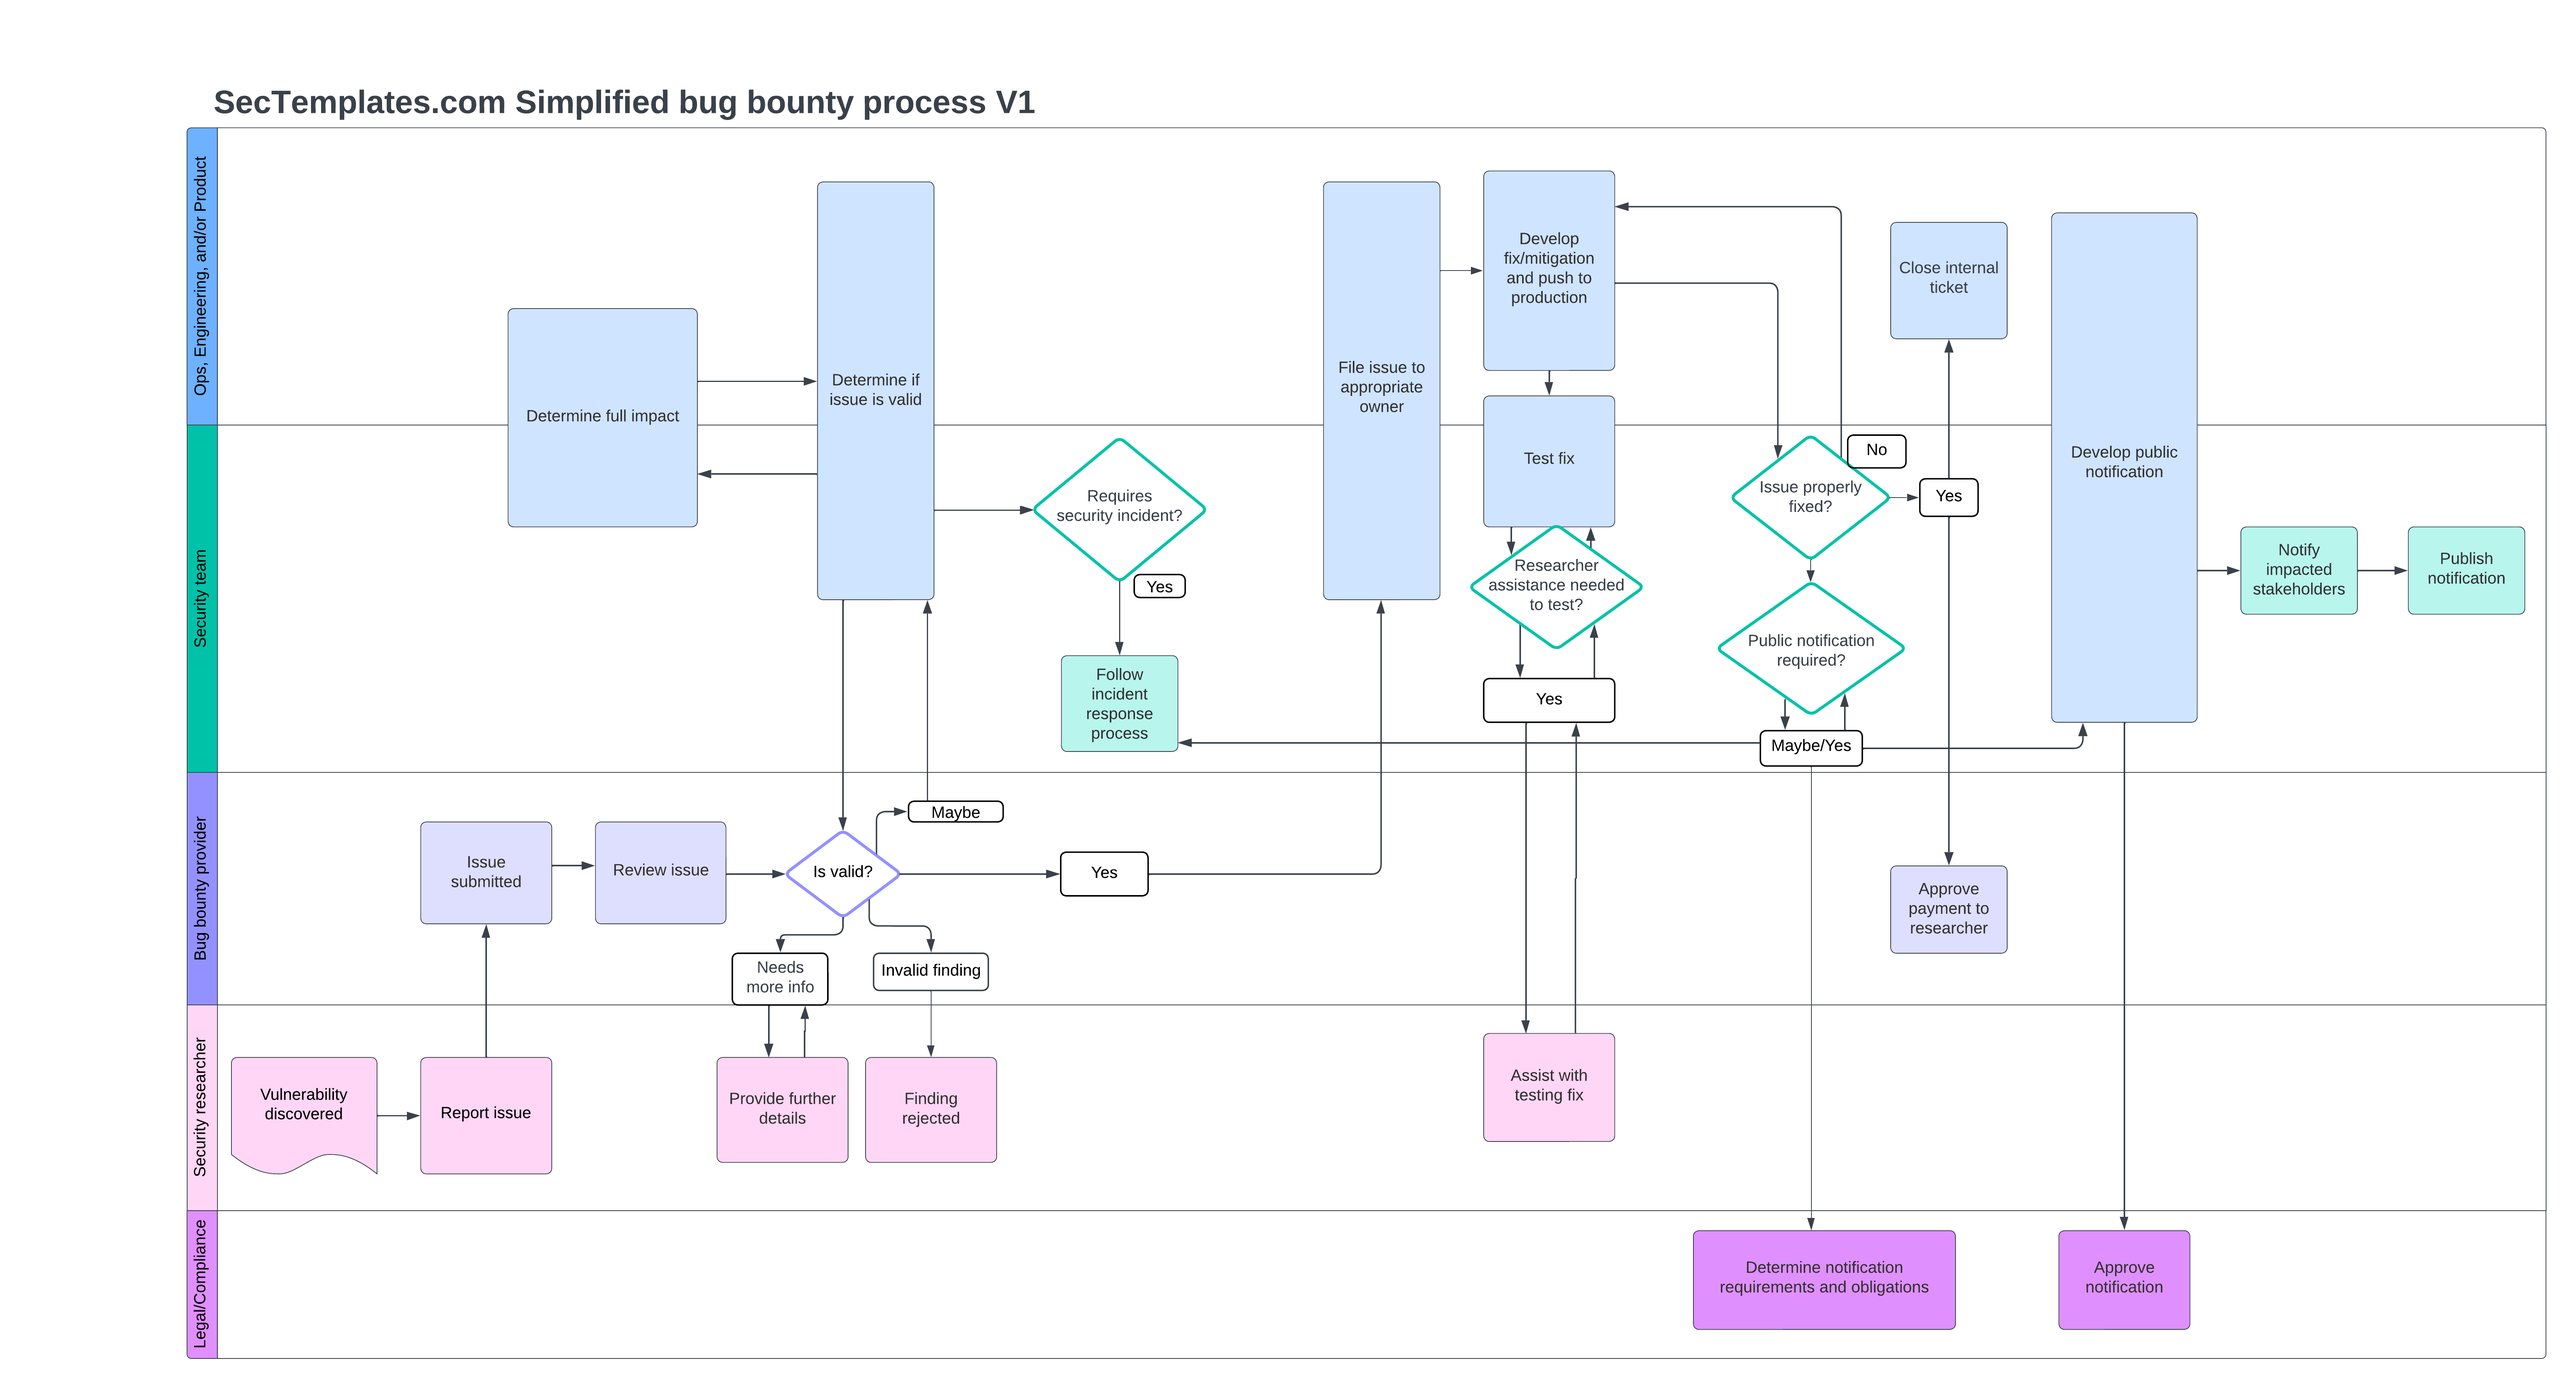
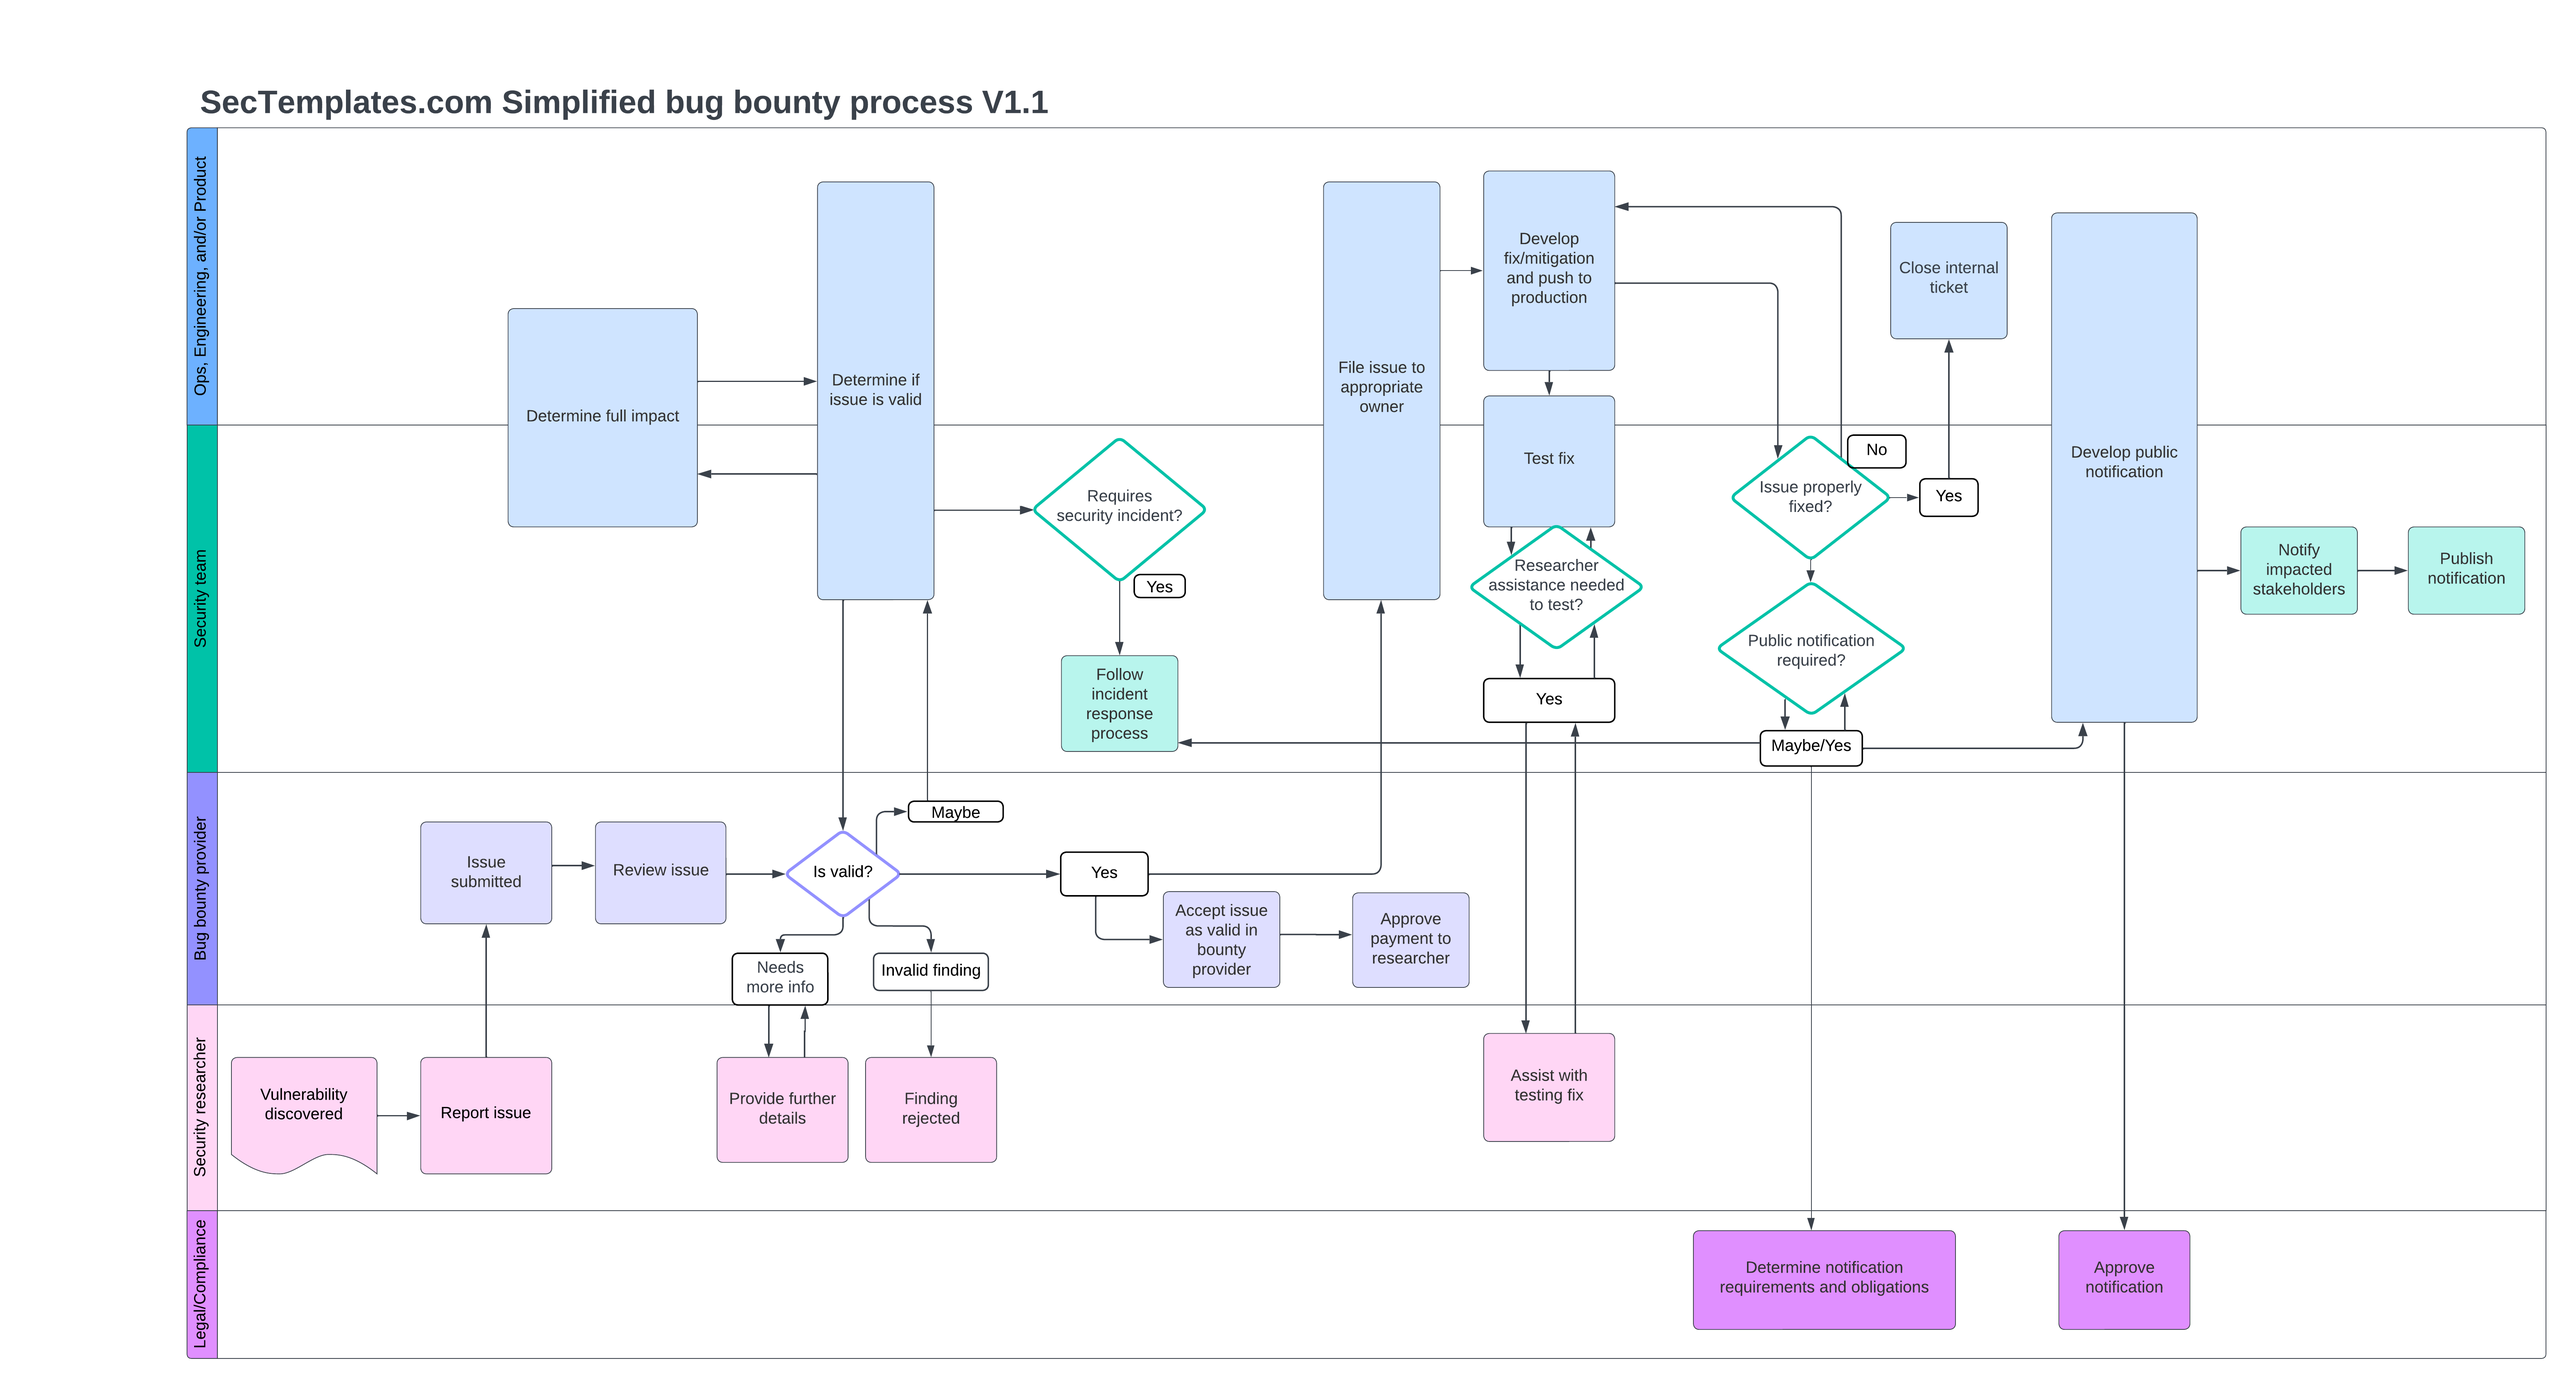
Improve payout workflow
The workflow needed clarification.

Changed region(s): [[0.4368, 0.6208, 0.5929, 0.7139], [0.0624, 0.0621, 0.4056, 0.0931], [0.7177, 0.6208, 0.7801, 0.7139]]

diff --git a/bug-bounty/v1/Bug_bounty_runbook.md b/bug-bounty/v1/Bug_bounty_runbook.md
@@ -19,26 +19,29 @@ When a vulnerability report enters your review queue, perform the following step
    * If the issue appears to be real or valid, confirm the possible negative impact reported by the researcher, and loop in engineering stakeholders to verify the impact is correctly understood. This may require engaging engineering or ops on-call to assist. <br>
       * <b>For High-Critical severity issues</b>, spin up an incident channel per your <a href="https://www.sectemplates.com/2024/06/announcing-the-incident-response-program-pack-10.html">incident response process</a> to discuss the issue with applicable stakeholders and roll out a fix quickly. <b>If data leakage  potentially occurred, you MUST contact your incident response team and support them in forensic investigations. It's critical to determine how long the issue was open and if other researchers or attackers may have exploited the flaw. If data leakage is thought to have occurred, work with your incident response team to notify your legal team appropriately.</b><br>
       * <b>For Low-Medium severity issues</b> with a low impact, file the issue in your internal bug tracker and notify the issue owner.<br>
-      * <b>For out of scope issues</b> that appear valid but are technically out of scope, evaluate with your team if the issue should still be paid out or if the asset containing the vulnerability should be added to the 'in scope' section of your <a href="./Bug_bounty_simplified_policy.md">bounty policy</a>.  
+      * <b>For out of scope issues</b> that appear valid but are technically out of scope, evaluate with your team if the issue should still be paid out or if the asset containing the vulnerability should be added to the 'in scope' section of your <a href="./Bug_bounty_simplified_policy.md">bounty policy</a>.
+    * When communicating with the researcher, let them know that you are still investigating the issue and appreciate their responsible collaboration.
 4. <b>File internal vulnerability tickets</b><br>
    * When issues are critical in nature, follow your <a href="https://www.sectemplates.com/2024/06/announcing-the-incident-response-program-pack-10.html">incident response process</a> to determine if an incident is required to address the issue immediately. <br>
    * Submit the vulnerability to the appropriate engineering or operations owner, notify them that the issue is incoming, and offer help to remediate the issue. <b>Never blindly file tickets to stakeholders that have been reported by an outside party.</b><br>
 5. <b>Support engineering in developing a fix</b><br>
    * Engineering may want guidance on how to patch, mitigate, or fix the issue. This likely requires involving different subject matter experts within the security team, such as infrastructure/cloud security, product security, or secops. [1].   
-6. <b>Confirm that the fix is correct by having a qualified representative of the security team perform the testing.</b><br>
+6. <b>Notify researcher of issue acceptance:</b> You should notify the researcher soon after verifying the issue internally. How quickly you take to verify the issue can positively, or negatively impact the perception of your program by other security researchers and customers. 
+7. <b>Confirm that the fix is correct by having a qualified representative of the security team perform the testing.</b><br>
    * If a qualified person exists, have them perform variations of the attack to attempt to bypass the fix. <br>
    * If no qualified person exists, reach out to the vulnerability researcher to assist with this process.<br>
-7. <b>Notify the researcher of the deployed fix and ask them to test it</b><br>
+8. <b>Notify the researcher of the deployed fix and ask them to test it</b><br>
    * Each company has a different process for release management, and some companies may choose to deploy each fix to staging or test environments before going live, while others will directly push to production. The culture of release management will influence how security fixes and mitigations are deployed. Once a fix has been deployed in a way that the external security researcher can test it, reach out and invite them to try and bypass your fix. They have expertise worth utilizing, are motivated to earn their bounty, and work collaboratively with you.
-8. <b>Close issue as resolved</b><br>
+9. <b>Close issue as resolved</b><br>
    * Once the issue has been verified as fixed and that fix has been pushed to all of production, you can close the issue. Sometimes internal engineering or operations teams will want to close the issue once a fix is checked into the repository; however, that fix may not be deployed for some time. In the context of open security issues, they should remain open until verified to have gone live in production.
-9. <b>Determine if issue requires public notification</b>
-   * Determine if a public blog post, release note, email, or other notification should be sent or made available to customers. All external communication of a known security vulnerability should be reviewed by security leadership, engineering leadership, legal, and public relations. <br>
-10. <b>Pay researcher</b><br>
+10. <b>Determine if issue requires public notification</b>
+    * Determine if a public blog post, release note, email, or other notification should be sent or made available to customers. All external communication of a known security vulnerability should be reviewed by security leadership, engineering leadership, legal, and public relations. <br>
+11. <b>Pay researcher</b><br>
     * At this stage, the researcher should be paid if they followed the policy outlined for your program and worked ethically with you.
+    * Generally, it is better to pay the researcher upon acceptance of the issue on the bounty platform rather than waiting for the fixed issue to be deployed. This is because, depending on the issue type, it could take weeks or even months to resolve, and the researcher worked with you in good faith and should be rewarded accordingly. Ultimately, the decision to pay upon acceptance versus upon resolution is made by the program owner and may vary on a case-by-case basis.
 
 
 ## Appendix
 [1] For externally reported issues, it's best to oversee each issue rather than assuming the vulnerability management process will handle it for you, at least in the beginning.
 
-Runbook version 1.0 copied from [Sectemplates.com](https://www.sectemplates.com)
+Runbook version 1.1 copied from [Sectemplates.com](https://www.sectemplates.com)
